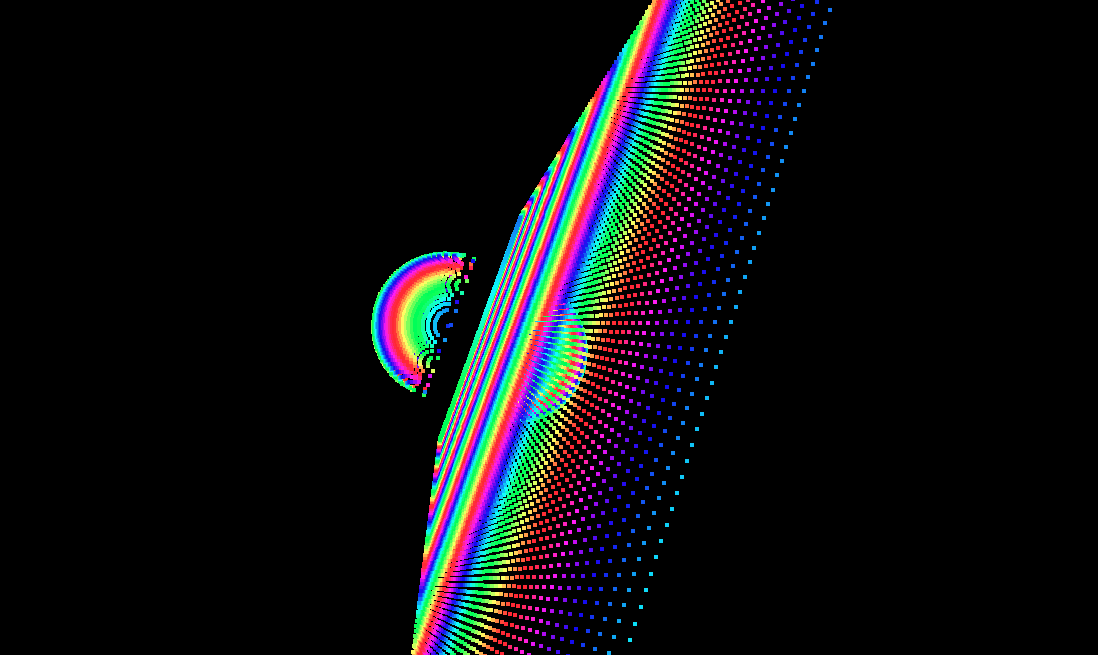
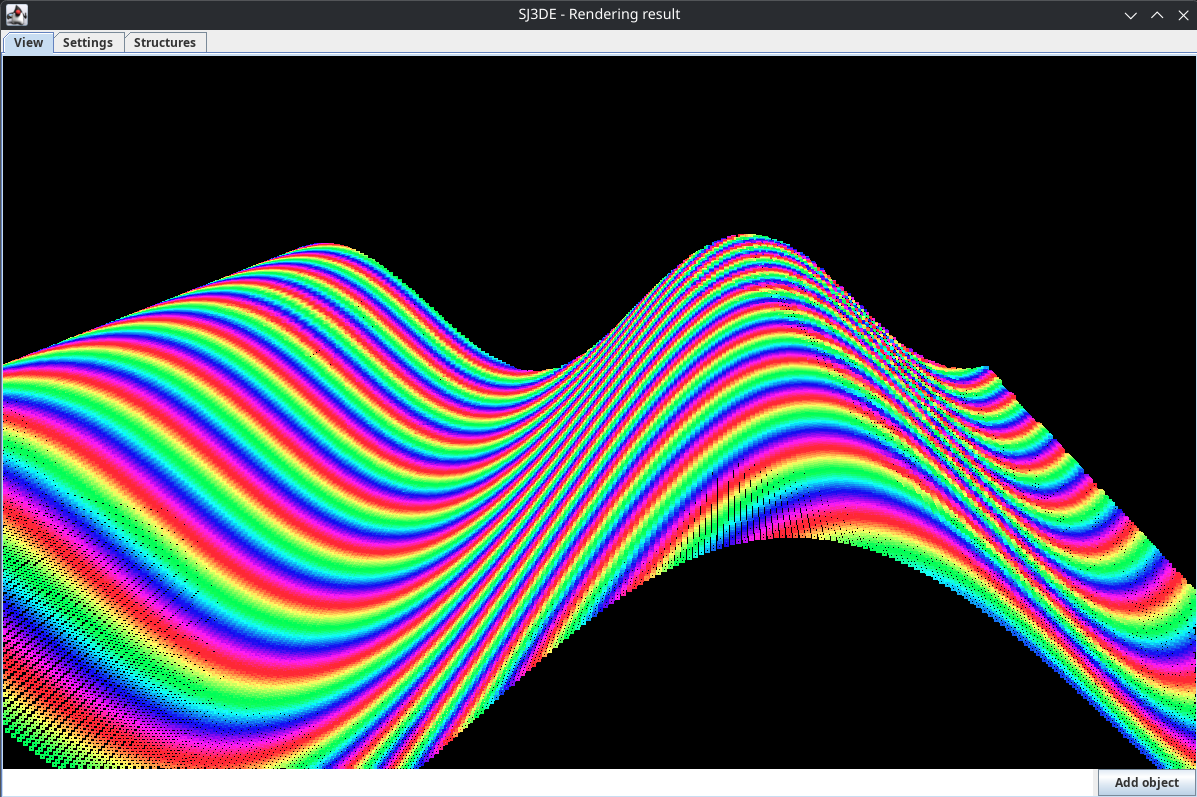
Better displaying of rendered custom expressions, minor fixes, RenderTab

diff --git a/src/SJ3DE_engine/Engine.java b/src/SJ3DE_engine/Engine.java
@@ -1,12 +1,14 @@
 package SJ3DE_engine;
 
 import javax.swing.*;
+import javax.swing.border.Border;
 import java.awt.*;
 import java.awt.event.*;
 import SJ3DE_environment.*;
 import SJ3DE_environment.Point;
 import SJ3DE_stereometry.*;
 import SJ3DE_ui.LoadedStructuresPanel;
+import SJ3DE_ui.RenderTab;
 import SJ3DE_ui.SettingsPanel;
 
 import java.util.ArrayList;
@@ -17,7 +19,7 @@ public class Engine extends JPanel {
     public List<SJ3DE_environment.Space> objects = new ArrayList<SJ3DE_environment.Space>();
     double rotate_X = 0;
     double rotate_Y = 0;
-    double radius_from_point_zero = 50;
+    public double radius_from_point_zero = 50;
     public double f = 1000;
 
     public Engine() {
@@ -117,7 +119,6 @@ public class Engine extends JPanel {
         }
 
         for (SJ3DE_environment.Point p : points) {
-
             SJ3DE_environment.Point pp = new SJ3DE_environment.Point(
                     p.x,
                     p.z,
@@ -141,7 +142,6 @@ public class Engine extends JPanel {
             if (depth < zBuffer[x2d][y2d]) {
                 zBuffer[x2d][y2d] = depth;
 
-                g2.setColor(Color.decode(p.material.color));
                 int size = (int) p.material.thickness;
 
                 int radius = size / 2;
@@ -158,7 +158,11 @@ public class Engine extends JPanel {
                         if (depth < zBuffer[px][py]) {
                             zBuffer[px][py] = depth;
 
-                            g2.setColor(Color.decode(p.material.color));
+                            if(p.material.color instanceof String) {
+                                g2.setColor(Color.decode((String)p.material.color));
+                            } else if (p.material.color instanceof Color) {
+                                g2.setColor((Color)p.material.color);
+                            }
                             g2.fillRect(px, py, 1, 1);
                         }
                     }
@@ -170,33 +174,17 @@ public class Engine extends JPanel {
         List<SJ3DE_environment.Space> objects = new ArrayList<SJ3DE_environment.Space>();
 
         // Render tab setup
-        JPanel render_tab = new JPanel();
-        Engine render = new Engine();
-        render_tab.setLayout(new BorderLayout());
-        render_tab.add(render, BorderLayout.CENTER);
-        JPanel expression_pane_box = new JPanel();
-        JTextPane expression_pane = new JTextPane();
-        expression_pane.setPreferredSize(new Dimension(1000, 25));
-        JButton process_expression = new JButton("Add object");
-        process_expression.addActionListener(new ActionListener() {
-            @Override
-            public void actionPerformed(ActionEvent e) {
-                render.objects.add(new Space(0,0,0, new RenderExpression(expression_pane.getText(), new Point(0,0,0))));
-            }
-        });
-        expression_pane_box.add(expression_pane);
-        expression_pane_box.add(process_expression);
-        render_tab.add(expression_pane_box, BorderLayout.SOUTH);
+        RenderTab render_tab = new RenderTab();
 
         // Main Swing objects setup
         JFrame frame = new JFrame("SJ3DE - Rendering result");
-        JPanel settings = new SettingsPanel(render);
+        JPanel settings = new SettingsPanel(render_tab.getRender());
 
         // Tabs
         JTabbedPane tabs = new JTabbedPane();
         tabs.addTab("View", render_tab);
         tabs.addTab("Settings", settings);
-        tabs.addTab("Structures", new LoadedStructuresPanel(render));
+        tabs.addTab("Structures", new LoadedStructuresPanel(render_tab.getRender()));
 
         frame.add(tabs, BorderLayout.CENTER);
 

diff --git a/src/SJ3DE_ui/RenderTab.java b/src/SJ3DE_ui/RenderTab.java
@@ -1,0 +1,42 @@
+package SJ3DE_ui;
+
+import SJ3DE_engine.Engine;
+import SJ3DE_environment.Point;
+import SJ3DE_environment.RenderExpression;
+import SJ3DE_environment.Space;
+
+import javax.swing.*;
+import java.awt.*;
+import java.awt.event.ActionEvent;
+import java.awt.event.ActionListener;
+
+public class RenderTab extends JPanel {
+    private Engine render = new Engine();
+    public RenderTab() {
+        setLayout(new BorderLayout());
+        add(render, BorderLayout.CENTER);
+        JPanel expression_pane_box = new JPanel();
+        expression_pane_box.setLayout(new BorderLayout(5, 5));
+        JTextPane expression_pane = new JTextPane();
+        JButton process_expression = new JButton("Add object");
+        process_expression.addActionListener(new ActionListener() {
+            @Override
+            public void actionPerformed(ActionEvent e) {
+                Space shape = new Space(0,0,0, new RenderExpression(expression_pane.getText(), new Point(0,0,0)));
+                for (Point po : shape.points) {
+                    po.parent_engine = render;
+                    po.rainbow();
+                }
+                render.objects.add(shape);
+                repaint();
+            }
+        });
+        expression_pane_box.add(expression_pane, BorderLayout.CENTER);
+        expression_pane_box.add(process_expression, BorderLayout.EAST);
+        add(expression_pane_box, BorderLayout.SOUTH);
+    }
+
+    public Engine getRender() {
+        return render;
+    }
+}

diff --git a/src/SJ3DE_environment/Point.java b/src/SJ3DE_environment/Point.java
@@ -1,5 +1,8 @@
 package SJ3DE_environment;
 
+import SJ3DE_engine.Engine;
+
+import java.awt.*;
 import java.io.Serializable;
 
 public class Point extends Environment implements Serializable {
@@ -8,6 +11,7 @@ public class Point extends Environment implements Serializable {
     public float y;
     public float z;
     public Material material = new Material();
+    public Engine parent_engine;
 
     public Point(float x, float y, float z)
     {
@@ -44,6 +48,12 @@ public class Point extends Environment implements Serializable {
         double zNew = -x * sin + z * cos;
         x = (float)xNew;
         z = (float)zNew;
+    }
+
+    // rainbow displaying
+    public void rainbow() {
+        float hue = (float)((z + y + x + parent_engine.radius_from_point_zero) / (2*parent_engine.radius_from_point_zero));
+        this.material = new Material(Color.getHSBColor(hue, 1f, 1f));
     }
 
     @Override

diff --git a/src/SJ3DE_environment/Material.java b/src/SJ3DE_environment/Material.java
@@ -2,19 +2,22 @@ package SJ3DE_environment;
 
 import java.io.Serializable;
 
-public class Material implements Serializable {
+public class Material <T> implements Serializable {
     private static final long serialVersionUID = 1L;
-    public String color;
+    public T color;
     public float thickness = 5;
 
-    public Material(String color, float thickness) {
+    public Material(T color, float thickness) {
         this.color = color;
         this.thickness = thickness;
     }
-    public Material(String color) {
+    public Material(T color) {
         this.color = color;
     }
+    public Material(float thickness) {
+        this.thickness = thickness;
+    }
     public Material() {
-        this.color = "#ffffff";
+        this.color = (T)"#ffffff";
     }
 }

diff --git a/src/SJ3DE_environment/Environment.java b/src/SJ3DE_environment/Environment.java
@@ -1,6 +1,11 @@
 package SJ3DE_environment;
 
+import java.util.ArrayList;
+import java.util.List;
+
 public abstract class Environment {
     public static float render_radius = 500;
     protected static float gap = 3;
+
+    //protected static List<Line> initial_layout = new ArrayList<>();
 }

diff --git a/src/SJ3DE_stereometry/Cone.java b/src/SJ3DE_stereometry/Cone.java
@@ -1,0 +1,9 @@
+package SJ3DE_stereometry;
+
+import SJ3DE_environment.Space;
+
+public class Cone extends Space {
+    private float r1;
+    private float r2;
+    private float h;
+}

diff --git a/README.md b/README.md
@@ -3,6 +3,7 @@ My first attempt using Java for 3D data visualization.
 
 ### Screenshots
 ![Screenshot 1](screenshots/S1.png)
+![Screenshot 2](screenshots/S2.png)
 
 ### Goal
 Goal is to build 3D visualization tool, combining image data and LiDAR measurements. 
